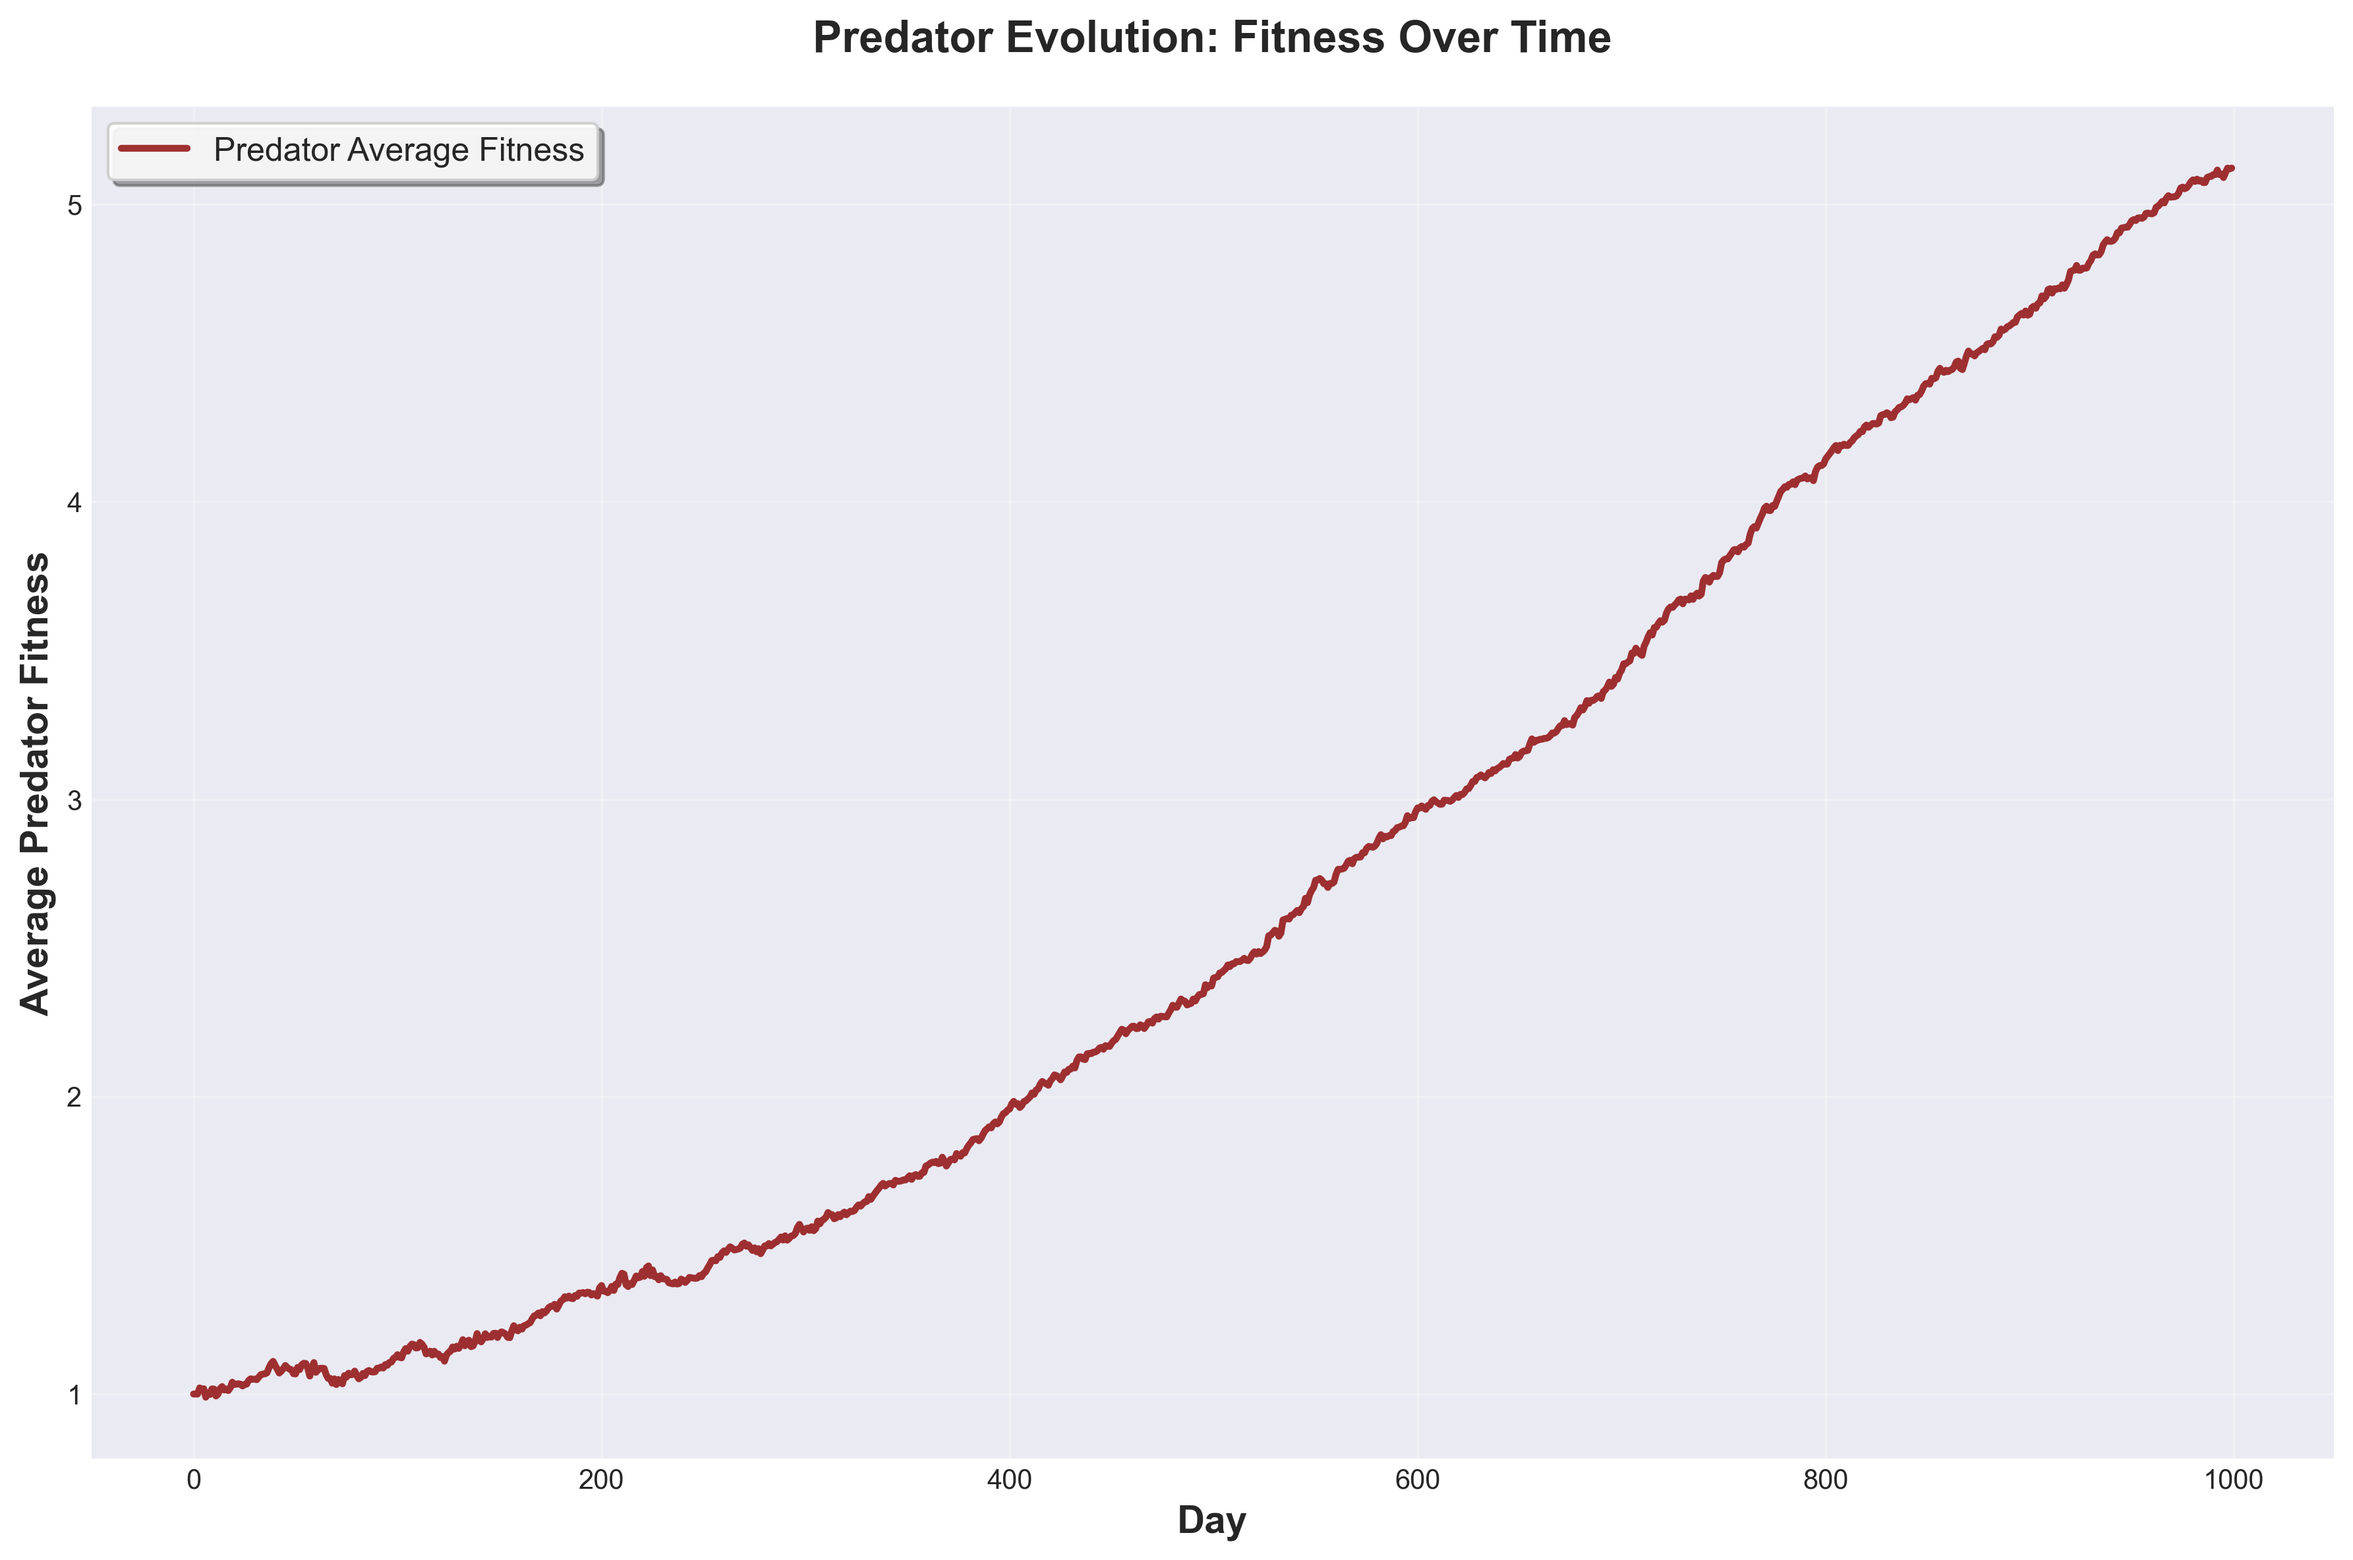
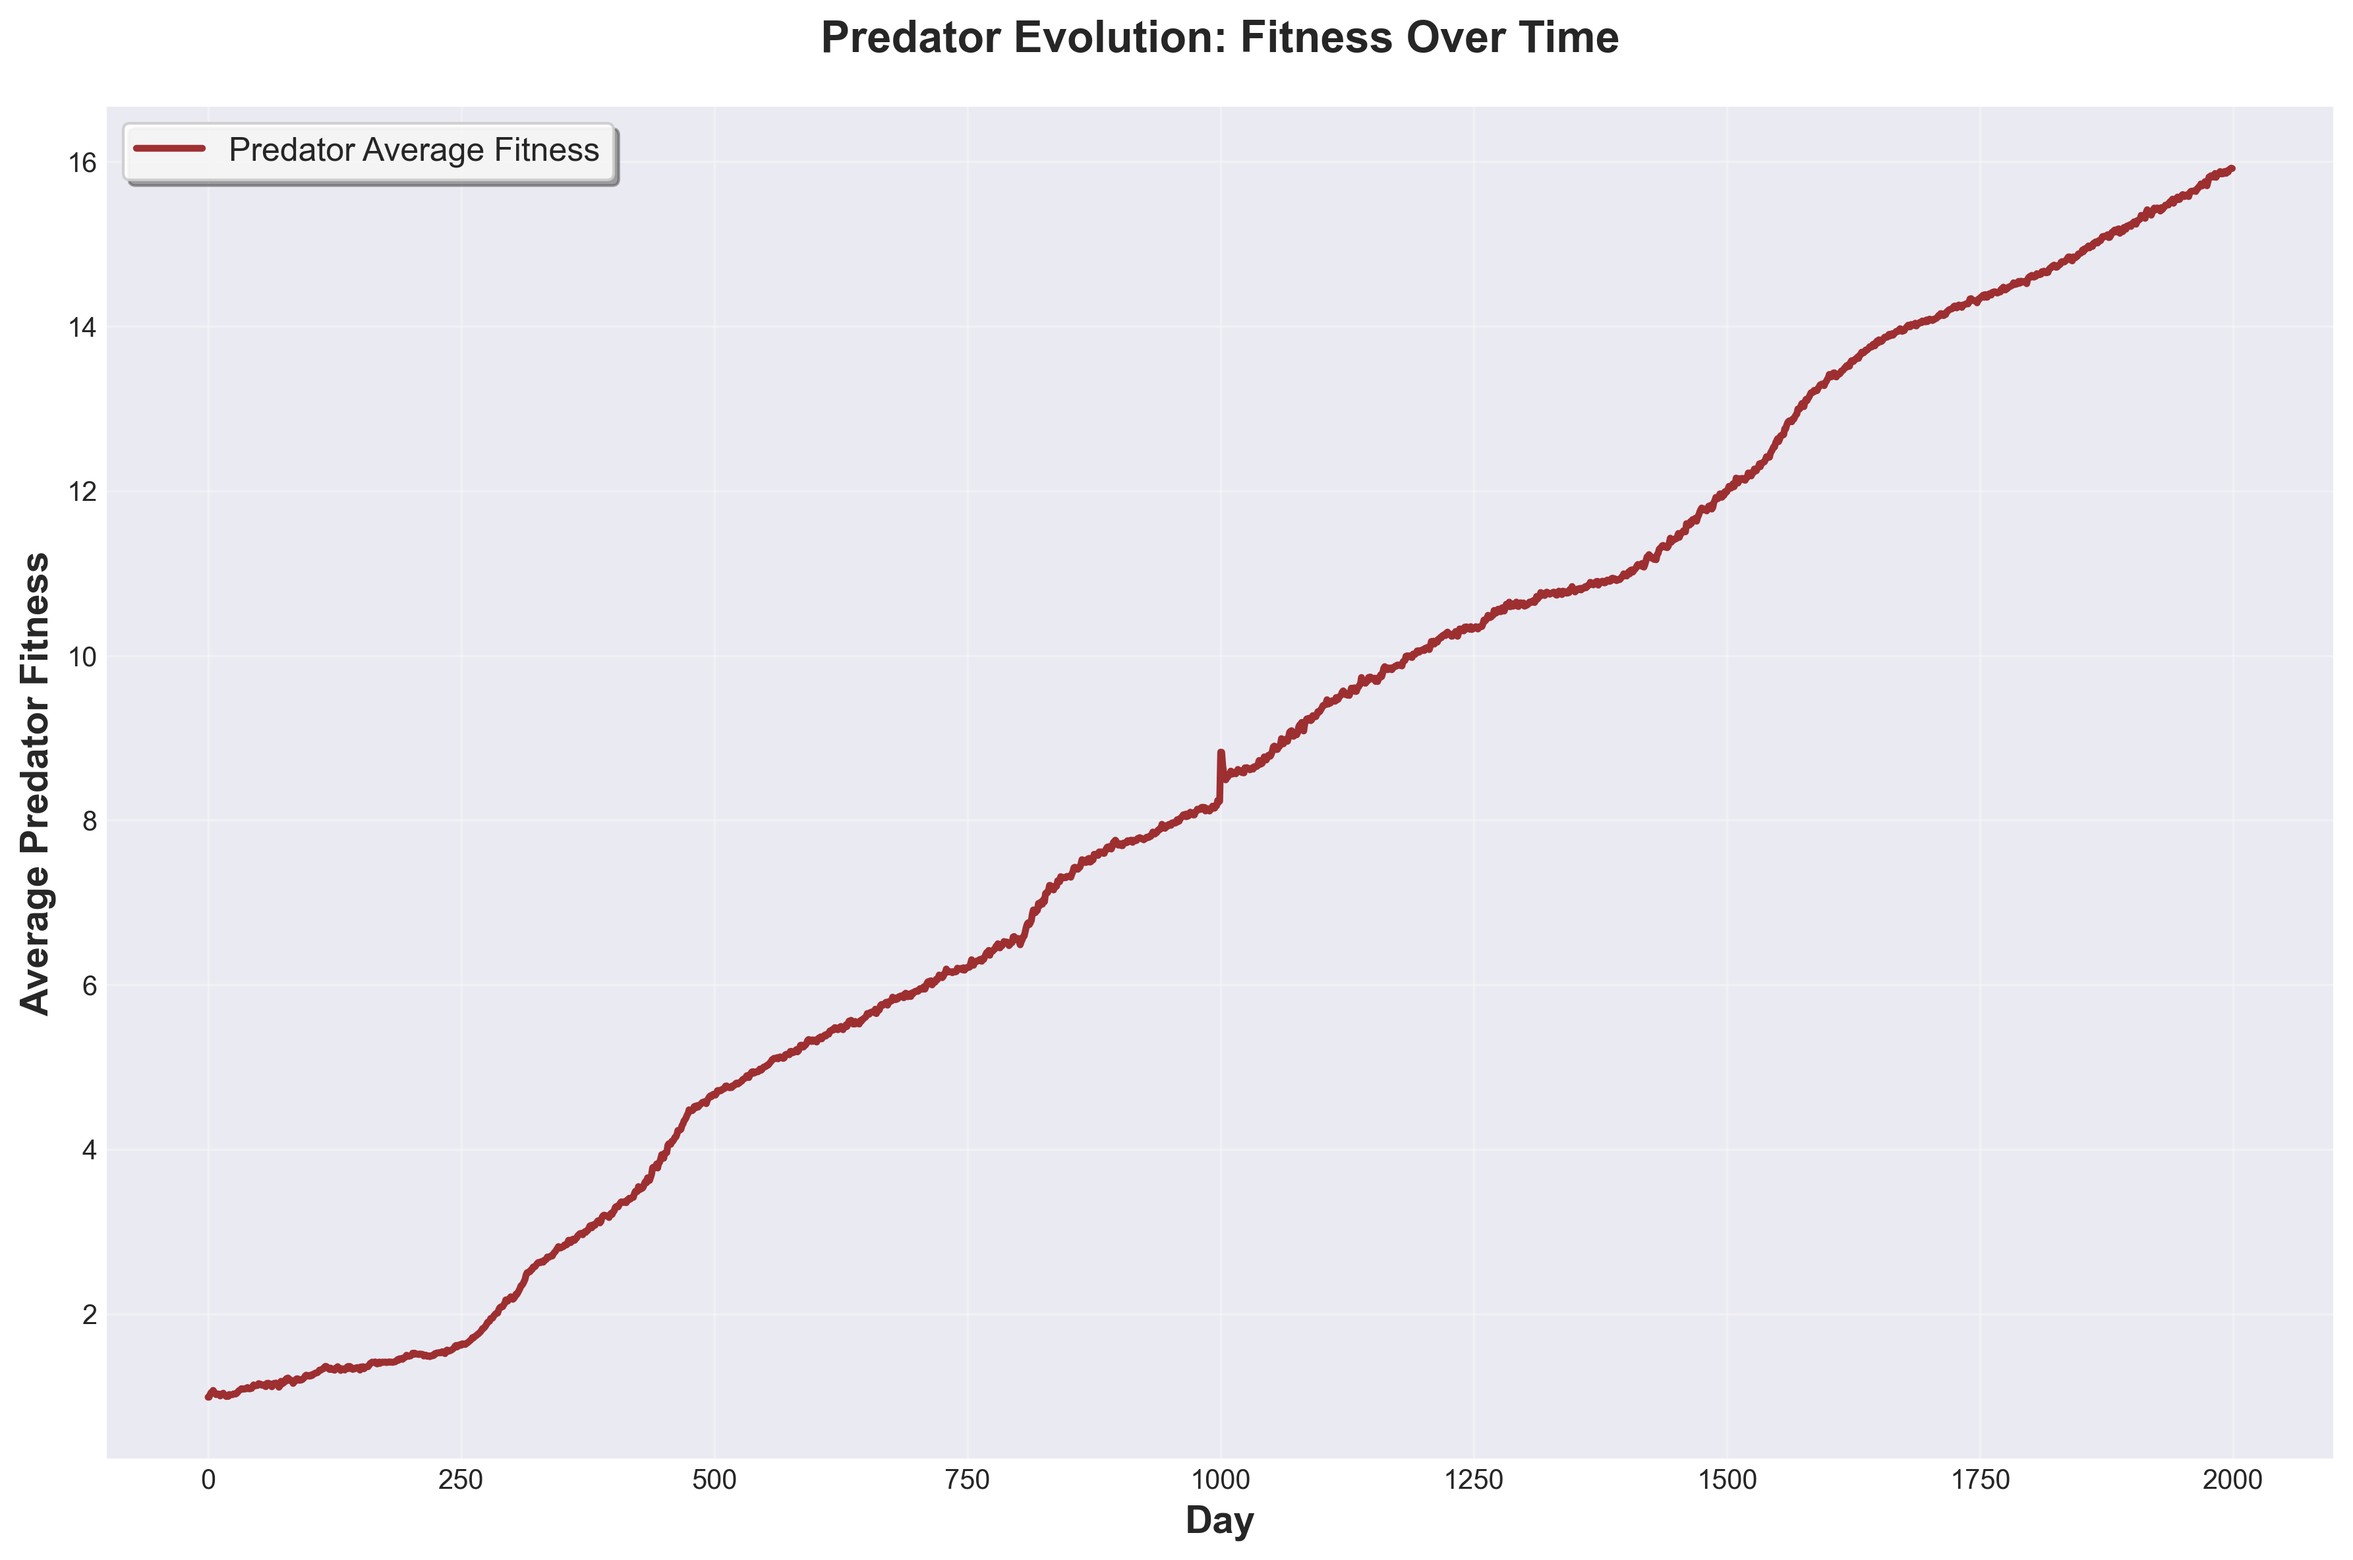
fixed mutation rate

diff --git a/final_project/ecosystem_simulation.py b/final_project/ecosystem_simulation.py
@@ -135,8 +135,8 @@ class Organism:
         """
         self.age = 1
         self.energy = 5
-        self.fitness = max(0.0 , fitness)
         self.mutation_rate = mutation_rate
+        self.fitness = max(0.0 , fitness + np.random.normal(0, self.mutation_rate))
         self.world = world
         self.eaten = 0
         self.energy_consumption = 1
@@ -149,7 +149,7 @@ class Organism:
     def reproduce(self) -> 'Organism':
         """Create offspring from this organism."""
         return type(self)(
-            self.fitness + np.random.normal(loc=0, scale=0.1), max(0, self.mutation_rate + np.random.normal(0, 0.01)),
+            self.fitness, max(0, self.mutation_rate + np.random.normal(0, 0.01)),
             world=self.world
         )
 
@@ -361,6 +361,7 @@ class World:
 ###############################################################################
 # VISUALIZATION FUNCTIONS
 ###############################################################################
+FIGURES_PATH = "C:/Users/ITAMARN/Weizmann Institute Dropbox/Itamar Nini/courses/Evolution through programing/evolution_through_programming/final_project/figures/"
 
 def setup_beautiful_plot(figsize=(12, 8)):
     """Setup a beautiful plot with modern styling."""
@@ -433,8 +434,8 @@ def population_size_figure(days_list: List[int], pred_pop_list: List[int],
     ax.grid(True, alpha=0.3)
     plt.tight_layout()
 
-    filename = "seasonal_population_size_fig.png" if seasons_list else "population_size_fig.png"
-    plt.savefig(filename, dpi=300, bbox_inches='tight')
+    # filename = "seasonal_population_size_fig.png" if seasons_list else "population_size_fig.png"
+    plt.savefig(FIGURES_PATH + "population_size_fig.png", dpi=300, bbox_inches='tight')
     # plt.show()
 
 
@@ -467,8 +468,8 @@ def prey_fitness_figure(avg_prey_fitness_list: List[float],
     ax.grid(True, alpha=0.3)
     plt.tight_layout()
 
-    filename = "seasonal_fitness_fig.png" if seasons_list else "fitness_fig.png"
-    plt.savefig(filename, dpi=300, bbox_inches='tight')
+    # filename = "seasonal_fitness_fig.png" if seasons_list else "fitness_fig.png"
+    plt.savefig(FIGURES_PATH + "fitness_fig.png", dpi=300, bbox_inches='tight')
     # plt.show()
 
 
@@ -499,7 +500,7 @@ def predator_fitness_figure(avg_pred_fitness_list: List[float],
     plt.tight_layout()
 
     filename = "seasonal_predator_fitness_fig.png" if seasons_list else "predator_fitness_fig.png"
-    plt.savefig(filename, dpi=300, bbox_inches='tight')
+    plt.savefig(FIGURES_PATH + "predator_fitness_fig.png", dpi=300, bbox_inches='tight')
     # plt.show()
 
 
@@ -536,6 +537,7 @@ def grass_availability_figure(grass_list: List[int], days_list: List[int],
 def mutation_rate_figure(prey_mutation_rate: List[float], predator_mutation_rate: List[float],
                          days_list: List[int] = None, seasons_list: List[Season] = None):
     """Create a beautiful mutation rate evolution plot."""
+    print("*************** Im Here***********************")
     fig, ax = setup_beautiful_plot()
 
     # Create days list if not provided
@@ -567,8 +569,8 @@ def mutation_rate_figure(prey_mutation_rate: List[float], predator_mutation_rate
     ax.grid(True, alpha=0.3)
     plt.tight_layout()
 
-    filename = "seasonal_mutation_rate_fig.png" if seasons_list else "mutation_rate_fig.png"
-    plt.savefig(filename, dpi=300, bbox_inches='tight')
+    # filename = "seasonal_mutation_rate_fig.png" if seasons_list else "mutation_rate_fig.png"
+    plt.savefig(FIGURES_PATH + "mutation_rate_fig.png", dpi=300, bbox_inches='tight')
     # plt.show()
 
 
@@ -675,7 +677,7 @@ class SimulationRunner:
         else:
             avg_mutation_rate = 0.1  # Default mutation rate
 
-        added_predators = [Predator(avg_fitness*2, avg_mutation_rate, world) for _ in range(50)]
+        added_predators = [Predator(avg_fitness+1, avg_mutation_rate, world) for _ in range(100)]
         world.predator_list.extend(added_predators)
         Predator.total_population = len(world.predator_list)
 
@@ -707,7 +709,7 @@ class SimulationRunner:
         )
 
         avg_prey_fitness_no_pred_list = []
-        for day in range(self.days):
+        for day in range(2000):
             if len(world_no_pred.prey_list) > 0:
                 avg_prey_fitness_no_pred_list.append(
                     np.mean([prey.fitness for prey in world_no_pred.prey_list])
@@ -780,31 +782,28 @@ class SimulationRunner:
 
 def main():
     """Main entry point for the simulation."""
-    # Initialize simulation runner for extended simulation (2000 days total)
+    # 1) Run the extended sim (predators added halfway)
     runner = SimulationRunner(days=1000)
-
     print("=== Running Extended Simulation with Added Predators ===")
-    # Create world with initial populations
     world = World(prey_number=300, predator_number=10, grass_amount=300, seasonal=False)
-
-    # Run extended simulation
-    print("Running simulation with predator addition...")
     runner.run_simulation_with_added_predators(world)
 
-    # Create visualization
+    # 2) Make the before/after population plot (optional)
     runner.plot_extended_population_figure(predator_addition_day=1000)
 
-    # Also create a control simulation for comparison
-    print("Running control simulation without added predators...")
-    control_runner = SimulationRunner(days=2000)  # Run for same total time
-    control_world = World(prey_number=300, predator_number=10, grass_amount=300, seasonal=False)
-    control_runner.run_simulation(control_world)
+    # 3) Run the control (NO predators) to get the comparison fitness series
+    print("Running control simulation without predators...")
+    avg_prey_fitness_no_pred = runner.run_control_simulation(
+        prey_number=300, grass_amount=300, seasonal=False
+    )
 
+    # 4) Now this has what plot_all_figures needs ✅
+    runner.plot_all_figures(avg_prey_fitness_no_pred_list=avg_prey_fitness_no_pred,
+                            seasonal=False)
     print(f"Simulation completed. Total days simulated: {len(runner.days_list)}")
     print(f"Final prey population (with added predators): {runner.prey_pop_list[-1]}")
     print(f"Final predator population (with added predators): {runner.pred_pop_list[-1]}")
-    print(f"Final prey population (control): {control_runner.prey_pop_list[-1]}")
-    print(f"Final predator population (control): {control_runner.pred_pop_list[-1]}")
+
 
 
 if __name__ == "__main__":
